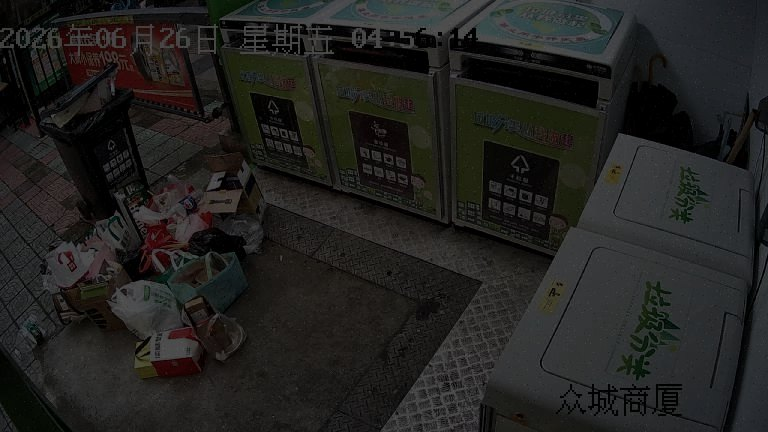
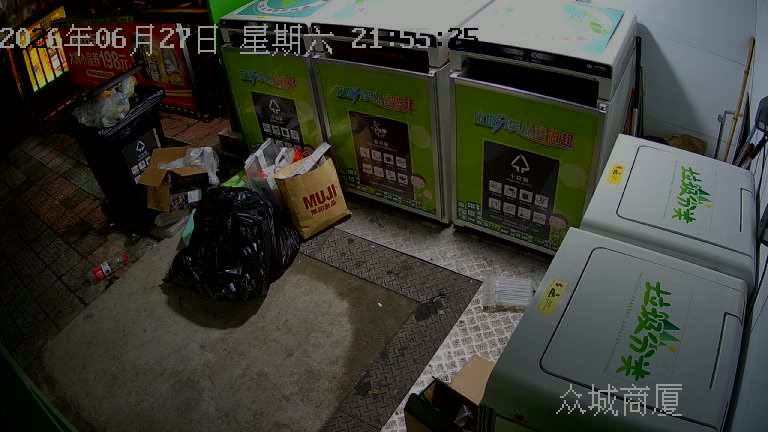
Normalize low-light VLM inputs

diff --git a/index.html b/index.html
@@ -1098,6 +1098,63 @@
         });
       }
 
+      function clampChannel(value) {
+        return Math.max(0, Math.min(255, value));
+      }
+
+      function getImageLightingStats(pixels) {
+        let total = 0;
+        let darkPixels = 0;
+        let validPixels = 0;
+        for (let index = 0; index < pixels.length; index += 16) {
+          const alpha = pixels[index + 3];
+          if (alpha === 0) continue;
+          const luminance = 0.2126 * pixels[index] + 0.7152 * pixels[index + 1] + 0.0722 * pixels[index + 2];
+          total += luminance;
+          validPixels += 1;
+          if (luminance < 72) darkPixels += 1;
+        }
+        return {
+          average: validPixels ? total / validPixels : 128,
+          darkRatio: validPixels ? darkPixels / validPixels : 0
+        };
+      }
+
+      function enhanceLowLightPixels(pixels, lighting) {
+        const intensity = Math.max(0, Math.min(1, (112 - lighting.average) / 72 + Math.max(0, lighting.darkRatio - 0.34)));
+        const gamma = 1 - 0.18 * intensity;
+        const contrast = 1 + 0.34 * intensity;
+        const lift = 10 + 20 * intensity;
+        for (let index = 0; index < pixels.length; index += 4) {
+          for (let channel = 0; channel < 3; channel += 1) {
+            const normalized = pixels[index + channel] / 255;
+            const gammaCorrected = Math.pow(normalized, gamma) * 255;
+            pixels[index + channel] = clampChannel((gammaCorrected - 128) * contrast + 128 + lift);
+          }
+        }
+      }
+
+      function prepareImageForVlm(image) {
+        const canvas = document.createElement("canvas");
+        canvas.width = image.naturalWidth;
+        canvas.height = image.naturalHeight;
+        const context = canvas.getContext("2d", { willReadFrequently: true });
+        context.drawImage(image, 0, 0, canvas.width, canvas.height);
+        const imageData = context.getImageData(0, 0, canvas.width, canvas.height);
+        const lighting = getImageLightingStats(imageData.data);
+        const shouldEnhance = lighting.average < 92 || (lighting.average < 112 && lighting.darkRatio > 0.45);
+        if (shouldEnhance) {
+          enhanceLowLightPixels(imageData.data, lighting);
+          context.putImageData(imageData, 0, 0);
+        }
+        return {
+          dataUrl: shouldEnhance ? canvas.toDataURL("image/jpeg", 0.94) : null,
+          applied: shouldEnhance,
+          averageLuminance: Math.round(lighting.average),
+          darkRatio: Number(lighting.darkRatio.toFixed(3))
+        };
+      }
+
       async function imageToDataUrl(imageUrl) {
         const response = await fetch(imageUrl);
         if (!response.ok) {
@@ -1136,7 +1193,8 @@
       }
 
       async function requestVlmAnalysis(image, imageUrl) {
-        const imageDataUrl = imageUrl ? await imageToDataUrl(imageUrl) : await blobToDataUrl(await fetch(image.src).then((response) => response.blob()));
+        const preparedImage = prepareImageForVlm(image);
+        const imageDataUrl = preparedImage.dataUrl || (imageUrl ? await imageToDataUrl(imageUrl) : await blobToDataUrl(await fetch(image.src).then((response) => response.blob())));
         const response = await fetch(analysisApiUrl, {
           method: "POST",
           headers: { "Content-Type": "application/json" },
@@ -1152,6 +1210,11 @@
                 lidOpenEvents: "接入",
                 collectionSchedule: "接入",
                 disposalRecords: "接入"
+              },
+              imagePreprocessing: {
+                mode: preparedImage.applied ? "low_light_visibility_normalization" : "none",
+                averageLuminance: preparedImage.averageLuminance,
+                darkRatio: preparedImage.darkRatio
               }
             }
           })

diff --git a/README.md b/README.md
@@ -114,7 +114,7 @@ https://waste-vision-vlm.densematrix.ai/analyze
 - `customer-scenes/overflow-yard-pile.jpg`：桶旁堆放，来源 `GS3821437_0_20260626_045618.jpg`
 - `customer-scenes/bulky-waste-pile.jpg`：袋装堆放，来源 `GS3821437_0_20260627_215529.jpg`
 - `customer-scenes/multi-pile-separate.jpg`：两处不重合堆放，用现有固定机位画面合成，用于验证多框输出
-- `customer-scenes/low-light-pile.jpg`：低照度堆放，用现有堆放画面增强生成，用于验证夜间/暗光效果
+- `customer-scenes/low-light-pile.jpg`：低照度堆放，由 `bulky-waste-pile.jpg` 同源生成，用于验证同一现场在暗光条件下的多堆放识别稳定性
 - `customer-scenes/heavy-rain-pile.jpg`：大雨堆放，用现有堆放画面增强生成，用于验证雨幕和地面反光效果
 - `customer-scenes/normal-clean-01.jpg`：正常巡检画面
 - `customer-scenes/normal-clean-02.jpg`：正常巡检画面
